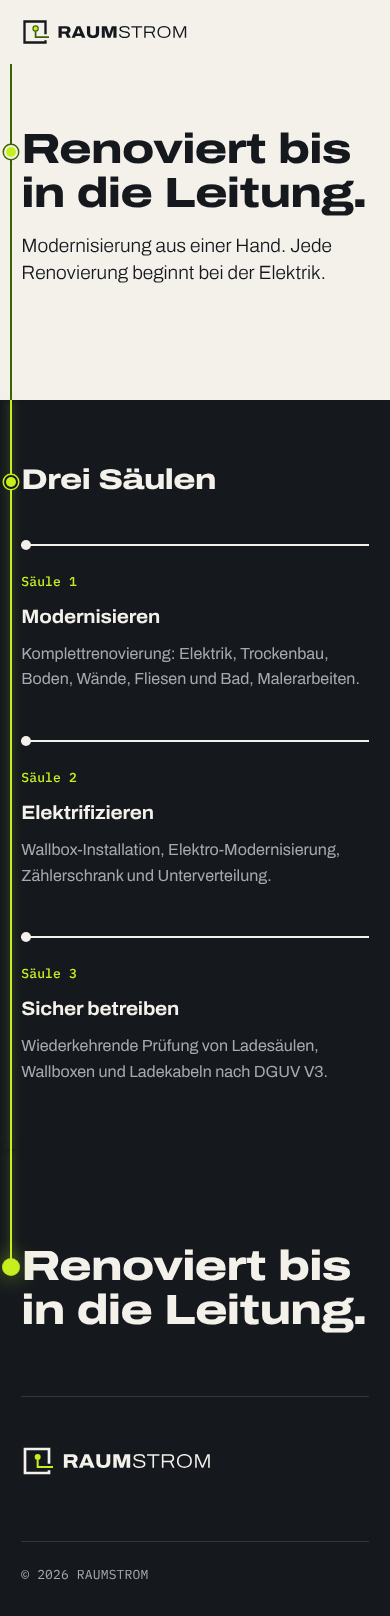
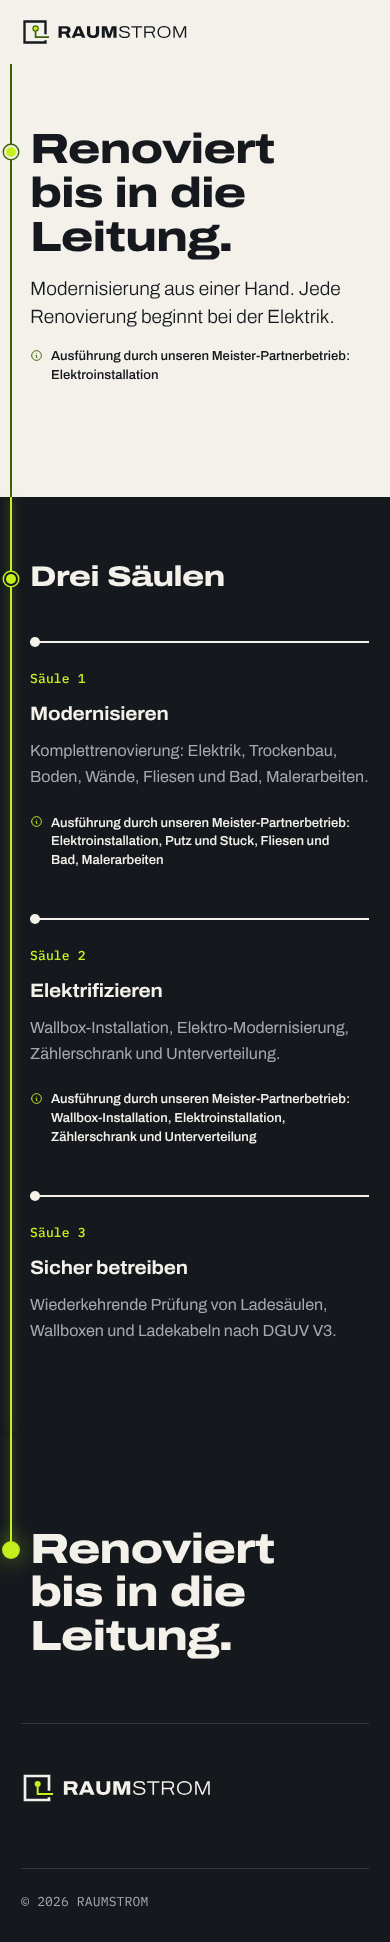
Phase 1 Nacharbeit (design-system): Popover-Rahmen, Gewerke-Hinweis, Abstaende mobil
Claude-Session: https://claude.ai/code/session_011V14hCrD7TgUWChvvZGyCo

diff --git a/tests/e2e/design-system.spec.ts b/tests/e2e/design-system.spec.ts
@@ -121,3 +121,39 @@ test('security.txt nach RFC 9116 (Expires höchstens 1 Jahr)', async ({ request 
   expect(tage).toBeGreaterThan(0);
   expect(tage).toBeLessThanOrEqual(366);
 });
+
+test('Desktop-Navigation ohne Popover-Standardrahmen (QA B1)', async ({ page, isMobile }) => {
+  test.skip(isMobile, 'nur Desktop');
+  for (const breite of [1152, 1440]) {
+    await page.setViewportSize({ width: breite, height: 800 });
+    await page.goto('/styleguide/');
+    const rand = await page.locator('#hauptmenue').evaluate((e) => getComputedStyle(e).borderTopWidth);
+    expect(rand, `${breite} px`).toBe('0px');
+  }
+});
+
+test('Partner-Gewerke sind gekennzeichnet (QA B3)', async ({ page }) => {
+  for (const pfad of SEITEN) {
+    await page.goto(pfad);
+    const hinweise = page.locator('[data-gewerke-hinweis]');
+    expect(await hinweise.count(), pfad).toBeGreaterThan(0);
+    await expect(hinweise.first()).toContainText('Ausführung durch unseren Meister-Partnerbetrieb');
+  }
+});
+
+test('Leitungsknoten halten Abstand zur Überschrift (QA B8)', async ({ page }) => {
+  await page.setViewportSize({ width: 390, height: 844 });
+  for (const pfad of SEITEN) {
+    await page.goto(pfad);
+    const abstaende = await page.$$eval('[data-leitung-knoten]', (ks) =>
+      ks.map((k) => {
+        const h = k.parentElement!;
+        const range = document.createRange();
+        range.selectNodeContents(h);
+        const text = [...range.getClientRects()].find((r) => r.width > 0 && r.left > k.getBoundingClientRect().right - 1);
+        return (text?.left ?? h.getBoundingClientRect().left) - (k.getBoundingClientRect().right + 3.5 + 2);
+      }),
+    );
+    for (const a of abstaende) expect(a, pfad).toBeGreaterThanOrEqual(8);
+  }
+});

diff --git a/docs/agent-reports/1-design-system.md b/docs/agent-reports/1-design-system.md
@@ -59,3 +59,16 @@ Lesart: lokaler Handwerks- und Elektrobetrieb für Eigentümer und Verwaltungen.
 - Popover-Menü braucht Chrome 114+, Safari 17+ bzw. Firefox 125+. Ältere Browser sehen den Menü-Button ohne Funktion. Abhilfe wäre ein kleines gebündeltes Fallback-Skript, falls nötig.
 - `fonts` in `astro.config.mjs` ist als `any` gecastet, weil der Config-Typ die Provider-Optionen aus einer Variable nicht ableitet. Astro validiert zur Laufzeit.
 - Der Datei-Button zeigt im Test-Chromium englischen Text („Choose Files"), weil der Browser die Sprache vorgibt. In deutschen Browsern ist er deutsch.
+
+## Nacharbeit nach QA (Stand a333656, 18.11.2026)
+| Befund | Änderung |
+|---|---|
+| B1 Popover-Rahmen in der Desktop-Navigation | `src/components/layout/Header.astro` (Desktop-Block): `border: 0`, `margin: 0`, `inset: auto`, `max-width/max-height: none`. Gemessen bei 1152 und 1440 px: `border-top-width` 0px. |
+| B3 Gewerke-Kennzeichnung | Neue Basis-Komponente `src/components/base/GewerkeHinweis.astro` (`gewerke`: IDs, `nennen`: betroffene Gewerke aufzählen, Standard ja). Sie nutzt `getPartnerGewerke()` und `PARTNER_HINWEIS` und rendert nichts, wenn alle Gewerke „eigen" sind. Unbekannte IDs brechen den Build ab. Eingesetzt im Start-Stub (Hero mit `elektroinstallation`, Säule 1 und 2 je an der Karte) und im Styleguide (Säulen-Karten, Graphit-Karten). Styleguide-Mustertexte ohne Gewerke-Nennung umformuliert, Blueprint-Beschriftung „Elektrik" ersetzt durch „Prüfservice Ladesäulen", „Wallbox, Typ 2" ersetzt durch „Ladesäule geprüft". Für page-builder: an jeder Leistung `<GewerkeHinweis gewerke={leistung.data.gewerke} />` direkt beim Text. |
+| B8 Knoten zu dicht | `Section.astro`: Variablen `--leitung-x` (Gutter/2) und `--inhalt-x` (`max(gutter, 1.875rem)`). Leitungs-Sections rücken den Inhalt auf mindestens 30 px ein, der Knoten rechnet sich daraus. Abstand Ring zu Text bei 390 px jetzt 9 px statt ca. 3 px. Gleicher Versatz am Footer-Claim. Am Desktop ändert sich nichts (Gutter 48 px). |
+
+Neue E2E-Tests in `tests/e2e/design-system.spec.ts`: Rahmen 0 px (B1), `[data-gewerke-hinweis]` mit Text auf `/` und `/styleguide/` (B3), Knotenabstand ≥ 8 px bei 390 px (B8).
+
+Tests: `npm test` 148/148 (+ Hook 7/7), `npm run check` 0 Fehler, Wording-Scan ok, `npm run build:staging` ok, `npm run test:e2e` 49 bestanden, 3 übersprungen (gerätespezifisch), darin axe 0 Verstöße auf `/` und `/styleguide/` in Desktop und mobil. Screenshots neu: `docs/agent-reports/screenshots/1/design-system-{start,styleguide}-{390,1440}.png`, `design-system-menue-390.png`.
+
+Offen: Ob die Lead-Formulierung „Modernisierung aus einer Hand" neben dem Hinweis ausreicht, entscheiden content-writer und legal-compliance in Phase 2.
